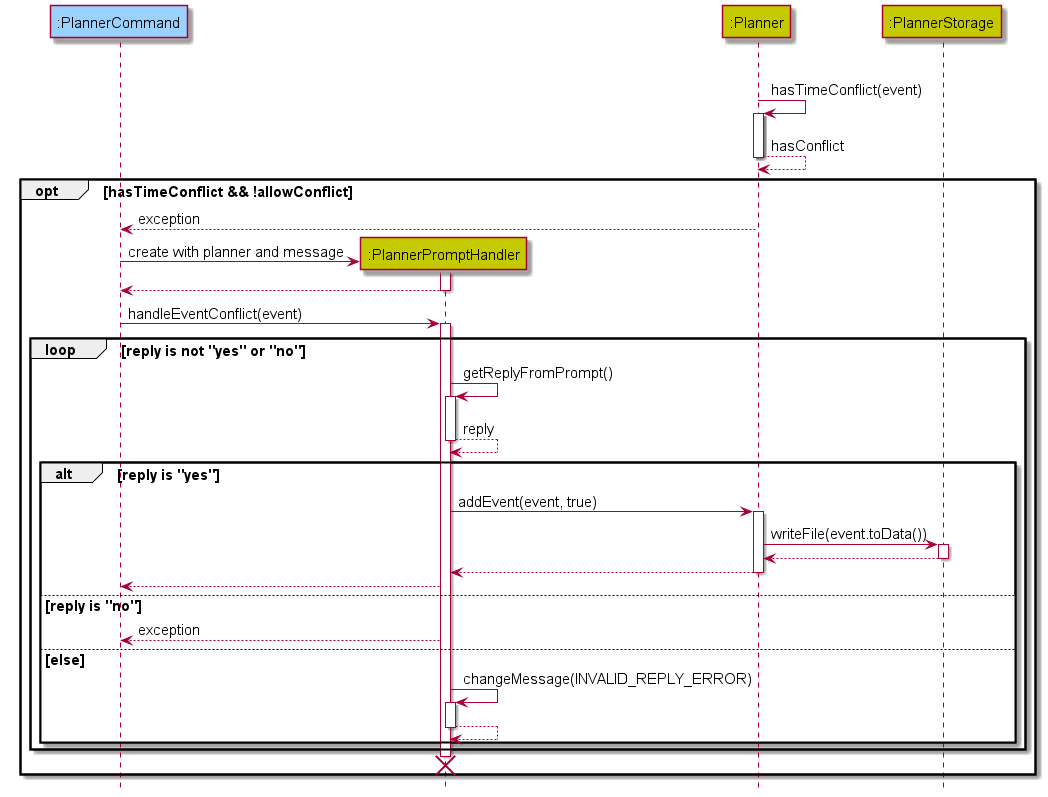
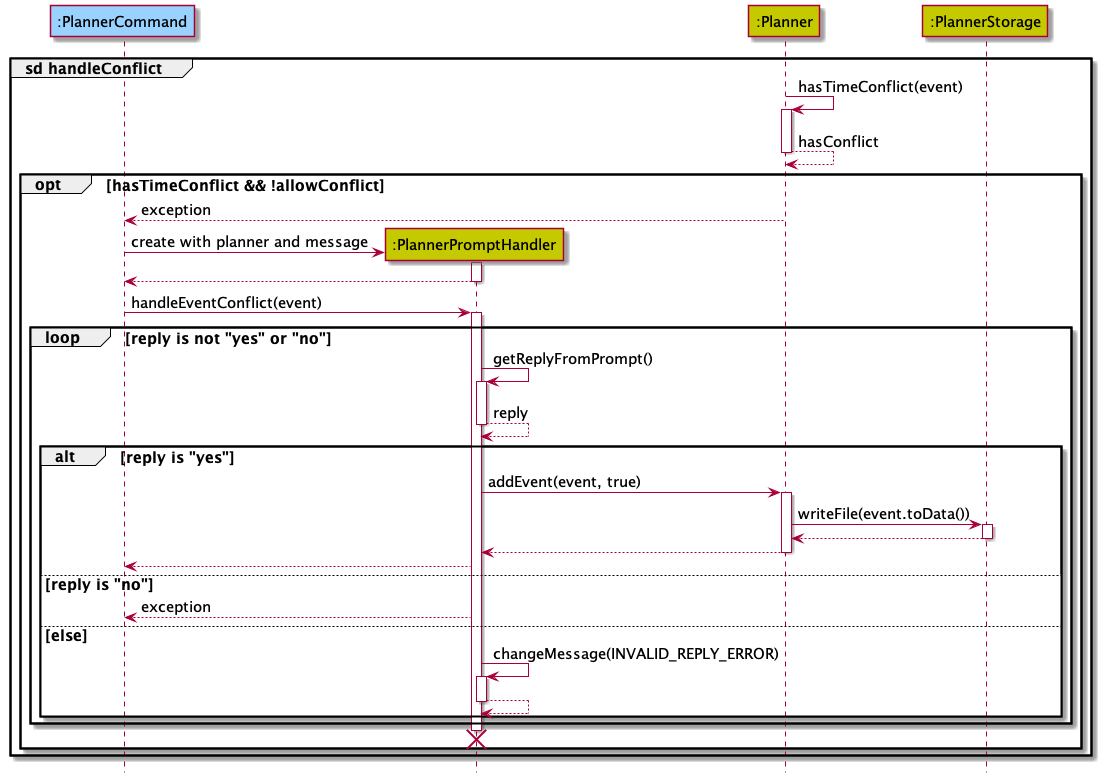
Update DG for timetable add sequence diagram and timetable manual testing

Changed region(s): [[0.0, 0.0, 1.0, 0.9871], [0.6107, 0.2776, 0.7023, 0.3085]]

diff --git a/src/main/java/seedu/kolinux/timetable/subcommand/SubCommand.java b/src/main/java/seedu/kolinux/timetable/subcommand/SubCommand.java
@@ -1,8 +1,10 @@
 package seedu.kolinux.timetable.subcommand;
 
+import seedu.kolinux.exceptions.KolinuxException;
 import seedu.kolinux.timetable.lesson.Lesson;
 
 import static seedu.kolinux.timetable.Timetable.lessonStorage;
+import static seedu.kolinux.timetable.lesson.Lesson.*;
 
 public class SubCommand {
 
@@ -28,7 +30,7 @@ public class SubCommand {
             "Please ensure the timing for the "
             +
             "lesson falls within the school hours: 0600 - 2100";
-    public static final String MISSING_LESSON_TO_DELETE = " does not exist in timetable.\n"
+    public static final String MISSING_LESSON_TO_DELETE = "Specified lesson does not exist in timetable.\n"
             +
             "Please input valid lesson to remove.";
     public static final String INVALID_ADD_FORMAT = "Please check the format of adding to timetable:\n"
@@ -39,7 +41,7 @@ public class SubCommand {
     public static final String INACCESSIBLE_PERIOD = "Please choose another slot as the "
             +
             "period is already occupied by another lesson";
-    public static final String MISSING_LESSON_TO_UPDATE = "Lesson does not exist in timetable.\n"
+    public static final String MISSING_LESSON_TO_UPDATE = "Specified lesson does not exist in timetable.\n"
             +
             "Try adding lesson to timetable with: timetable add";
     public static final String TIMETABLE_HEADER = "+-------------+--------------------+---------"
@@ -57,7 +59,7 @@ public class SubCommand {
     public static final String INVALID_LESSON_FORMAT = "Please ensure the LESSON_TYPE entered is in one of "
             +
             "the following format:\n1. LEC\n2. TUT\n3. LAB\n4. SEC";
-    public static final String INVALID_DAY_TIME = "1. Please ensure the days are within Monday to Friday "
+    public static final String INVALID_DAY_TIME_FOR_ADD = "1. Please ensure the days are within Monday to Friday "
             +
             "and spelt fully.\n2. Please ensure the timings are within the school hours: 0600 - 2100\n"
             +
@@ -68,6 +70,14 @@ public class SubCommand {
             "   readability of timetable view on CLI.\n"
             +
             "4. Please ensure the START_TIME is earlier than the END_TIME";
+    public static final String INVALID_DAY_START_TIME = "1. Please ensure the days are within Monday to Friday "
+            +
+            "and spelt fully.\n2. Please ensure the timings are in multiples of 30 mins.\n"
+            +
+            "   Timings like 1245 or 1110 are not accepted in order to maintain\n"
+            +
+            "   readability of timetable view on CLI.";
+
     public static final int TABLE_COLUMN_WIDTH = 20;
     public static final int TABLE_FIRST_COLUMN_WIDTH = 13;
 
@@ -96,6 +106,34 @@ public class SubCommand {
             }
         }
         return false;
+    }
+
+    /**
+     * Checks if the time and day entered when inputting the lesson is valid.
+     *
+     * @param day The day of the lesson to be added
+     * @param startTime The starting time of the lesson to be added
+     * @throws KolinuxException If the day or timings entered are invalid
+     */
+    protected void checkStartTimeAndDay(String day, String startTime, String correctFormat) throws KolinuxException {
+        int dayIndex = getIndex(day, days);
+        int startTimeIndex = getIndex(startTime, schoolHours);
+        if (startTimeIndex == -1 || dayIndex == -1 ) {
+            throw new KolinuxException(correctFormat + "\n\n" + INVALID_DAY_START_TIME);
+        }
+    }
+
+    /**
+     * Checks if the lesson type entered is valid.
+     *
+     * @param lessonType The lesson type of the lesson entered to add to timetable
+     * @throws KolinuxException If the lesson type entered is invalid
+     */
+    protected void checkLessonType(String lessonType, String correctFormat) throws KolinuxException {
+        if (!(lessonType.equals("TUT") || lessonType.equals("LEC") || lessonType.equals("LAB")
+                || lessonType.equals("SEC"))) {
+            throw new KolinuxException(correctFormat + "\n\n" + INVALID_LESSON_FORMAT);
+        }
     }
 
 }

diff --git a/src/main/java/seedu/kolinux/timetable/subcommand/AddSubCommand.java b/src/main/java/seedu/kolinux/timetable/subcommand/AddSubCommand.java
@@ -67,8 +67,8 @@ public class AddSubCommand extends SubCommand {
             throws KolinuxException {
         try {
             checkLessonInModuleList(moduleList, lessonDetails[0].toUpperCase());
-            checkLessonType(lessonDetails[1].toUpperCase());
-            checkTimeAndDay(lessonDetails[2].toLowerCase(), lessonDetails[3], lessonDetails[4]);
+            checkLessonType(lessonDetails[1].toUpperCase(), INVALID_ADD_FORMAT);
+            checkTimeAndDayForAdd(lessonDetails[2].toLowerCase(), lessonDetails[3], lessonDetails[4]);
             checkExceedingWorkload(lessonDetails, isAllowingAdd, isStorageAdd);
             sortLessonsToAdd(lessonDetails[1].toUpperCase(), lessonDetails);
         } catch (ArrayIndexOutOfBoundsException exception) {
@@ -208,7 +208,7 @@ public class AddSubCommand extends SubCommand {
             }
             return true;
         } catch (ArrayIndexOutOfBoundsException exception) {
-            throw new KolinuxException(INVALID_DAY_TIME);
+            throw new KolinuxException(INVALID_DAY_TIME_FOR_ADD);
         }
     }
 
@@ -220,25 +220,13 @@ public class AddSubCommand extends SubCommand {
      * @param endTime The ending time of the lesson to be added
      * @throws KolinuxException If the day or timings entered are invalid
      */
-    private void checkTimeAndDay(String day, String startTime, String endTime) throws KolinuxException {
+    private void checkTimeAndDayForAdd(String day, String startTime, String endTime)
+            throws KolinuxException {
         int dayIndex = getIndex(day, days);
         int startTimeIndex = getIndex(startTime, schoolHours);
         int endTimeIndex = getIndex(endTime, schoolHours);
         if (startTimeIndex == -1 || dayIndex == -1 || endTimeIndex == -1 || startTimeIndex >= endTimeIndex) {
-            throw new KolinuxException(INVALID_ADD_FORMAT + "\n\n" + INVALID_DAY_TIME);
-        }
-    }
-
-    /**
-     * Checks if the lesson type entered is valid.
-     *
-     * @param lessonType The lesson type of the lesson entered to add to timetable
-     * @throws KolinuxException If the lesson type entered is invalid
-     */
-    private void checkLessonType(String lessonType) throws KolinuxException {
-        if (!(lessonType.equals("TUT") || lessonType.equals("LEC") || lessonType.equals("LAB")
-                || lessonType.equals("SEC"))) {
-            throw new KolinuxException(INVALID_ADD_FORMAT + "\n\n" + INVALID_LESSON_FORMAT);
+            throw new KolinuxException(INVALID_ADD_FORMAT + "\n\n" + INVALID_DAY_TIME_FOR_ADD);
         }
     }
 

diff --git a/src/main/java/seedu/kolinux/timetable/subcommand/UpdateSubCommand.java b/src/main/java/seedu/kolinux/timetable/subcommand/UpdateSubCommand.java
@@ -5,7 +5,6 @@ import seedu.kolinux.timetable.lesson.Lesson;
 
 import java.util.Objects;
 
-import static seedu.kolinux.commands.TimetableCommand.timetable;
 import static seedu.kolinux.timetable.Timetable.lessonStorage;
 import static seedu.kolinux.timetable.lesson.Lesson.getIndex;
 import static seedu.kolinux.timetable.lesson.Lesson.schoolHours;
@@ -32,6 +31,9 @@ public class UpdateSubCommand extends SubCommand {
      */
     public void updateTimetable(String moduleCode, String lessonType, String oldDay,
             String oldStartTiming, String newDay, String newStartTiming) throws KolinuxException {
+        checkLessonType(lessonType, INVALID_UPDATE_FORMAT);
+        checkStartTimeAndDay(oldDay, oldStartTiming, INVALID_UPDATE_FORMAT);
+        checkStartTimeAndDay(newDay, newStartTiming, INVALID_UPDATE_FORMAT);
         if (!isLessonInTimetable(moduleCode, lessonType, oldDay, oldStartTiming)) {
             throw new KolinuxException(MISSING_LESSON_TO_UPDATE);
         }
@@ -43,7 +45,6 @@ public class UpdateSubCommand extends SubCommand {
         deleteSubcommand.deleteLesson(moduleCode, lessonType, oldDay, oldStartTiming);
         addSubcommand.inputLesson(parameters, true, false);
     }
-
 
     /**
      * Gets the duration of the lesson which is to be updated.
@@ -104,7 +105,5 @@ public class UpdateSubCommand extends SubCommand {
             throw new KolinuxException(UPDATING_TO_SAME_TIMING);
         }
     }
-
-
 
 }

diff --git a/src/test/java/seedu/kolinux/timetable/TimetableTest.java b/src/test/java/seedu/kolinux/timetable/TimetableTest.java
@@ -83,7 +83,7 @@ public class TimetableTest {
             addSubCommand.addToTimetable(lesson);
             timetable.clearTimetable();
         } catch (KolinuxException exception) {
-            assertEquals(SubCommand.INVALID_ADD_FORMAT + "\n\n" + SubCommand.INVALID_DAY_TIME,
+            assertEquals(SubCommand.INVALID_ADD_FORMAT + "\n\n" + SubCommand.INVALID_DAY_TIME_FOR_ADD,
                     exception.getMessage());
         }
     }
@@ -170,7 +170,7 @@ public class TimetableTest {
             timetable.executeDelete(VALID_ADD_TUTORIAL_ARGUMENTS);
             timetable.clearTimetable();
         } catch (KolinuxException e) {
-            assertEquals("CS1231 TUT" + SubCommand.MISSING_LESSON_TO_DELETE, e.getMessage());
+            assertEquals(SubCommand.MISSING_LESSON_TO_DELETE, e.getMessage());
         }
     }
 
@@ -181,7 +181,8 @@ public class TimetableTest {
             timetable.executeDelete(INVALID_DELETE_ARGUMENT);
             timetable.clearTimetable();
         } catch (KolinuxException e) {
-            assertEquals("CS1010 LESSON" + SubCommand.MISSING_LESSON_TO_DELETE, e.getMessage());
+            assertEquals(SubCommand.INVALID_DELETE_FORMAT + "\n\n" + SubCommand.INVALID_LESSON_FORMAT,
+                    e.getMessage());
         }
     }
 

diff --git a/src/main/java/seedu/kolinux/timetable/subcommand/DeleteSubCommand.java b/src/main/java/seedu/kolinux/timetable/subcommand/DeleteSubCommand.java
@@ -43,6 +43,8 @@ public class DeleteSubCommand extends SubCommand {
             throws KolinuxException {
         int removeIndex = -1;
         int endIndex = -1;
+        checkLessonType(lessonType, INVALID_DELETE_FORMAT);
+        checkStartTimeAndDay(day,startTime,INVALID_DELETE_FORMAT);
         for (int j = 0; j < lessonStorage.size(); j++) {
             String typeInStorage = lessonStorage.get(j).getLessonType();
             String codeInStorage = lessonStorage.get(j).getModuleCode();
@@ -54,7 +56,6 @@ public class DeleteSubCommand extends SubCommand {
                 endIndex = lessonStorage.get(j).getEndTimeIndex();
             }
         }
-        String description = moduleCode + " " + lessonType;
         if (removeIndex != -1) {
             assert endIndex != -1;
             int startIndex = getIndex(startTime, schoolHours);
@@ -62,7 +63,7 @@ public class DeleteSubCommand extends SubCommand {
             lessonStorage.remove(removeIndex);
             timetableStorage.writeToFile();
         } else {
-            throw new KolinuxException(description + MISSING_LESSON_TO_DELETE);
+            throw new KolinuxException(MISSING_LESSON_TO_DELETE);
         }
     }
 

diff --git a/docs/DeveloperGuide.md b/docs/DeveloperGuide.md
@@ -222,39 +222,33 @@ file via `TimetableStorage#writeToFile()`
 
 ![Sequence Diagram2](assets/images/TimetableAddSequenceDiagram2.png)
 
-* There are checks done before adding to the timetable and one of them is the 
-`AddSubCommand#isLessonInModuleList(moduleList, moduleCode)`. This integrates `Timetable` and `ModuleList` which 
-ensures a module's lessons being added to the timetable has its `moduleCode` first added to the `ModuleList` 
-else it will throw an exception to add the module.
+* Due to a few inaccuracies in the api for the prescribed workload for certain modules, users are given the liberty to
+exceed the workload whilst displaying a warning as to what the prescribed workload is. For this we have made use of the 
+`PromptHandler` just like we did in `planner` to get a reply from the user in order to continue adding with the lesson.
+* The following code illustrates how to check if the lesson inputted exceeds the workload.
 
 ```
-    private boolean isLessonInModuleList(ModuleList moduleList, String moduleCode) {
-        for (ModuleDetails module : moduleList.myModules) {
-            if (Objects.equals(module.moduleCode, moduleCode)) {
-                return true;
-            }
-        }
-        return false;
+private void checkExceedingWorkload(String[] lessonDetails, boolean isAllowingAdd, boolean isStorageAdd)
+        throws KolinuxException {
+    String lessonType = lessonDetails[1].toUpperCase();
+    String moduleCode = lessonDetails[0].toUpperCase();
+    double requiredHours = getRequiredHours(moduleList, moduleCode, lessonType);
+    double inputHours = getIndex(lessonDetails[4], schoolHours) - getIndex(lessonDetails[3], schoolHours);
+    double storageHours = getStorageHours(moduleCode, lessonType) + inputHours;
+    if (storageHours > requiredHours && !isAllowingAdd && !isStorageAdd) {
+        throw new ExceedWorkloadException("Input hours for " + moduleCode + " " + lessonType
+                +
+                " exceeds the total workload\nIt exceeds " + requiredHours / 2 + " hours\n"
+                +
+                "Do you want to continue adding the lesson despite\n"
+                +
+                "exceeding the workload? Please enter y or n");
     }
+}
 ```
-* Another check done is to check if the slot between `START_TIME` and `END_TIME` is not occupied by another lesson,
-likewise it will throw an exception.
 
-```
-    private boolean isPeriodFree(int startIndex, int endIndex, int dayIndex) throws KolinuxException {
-        try {
-            for (int i = startIndex; i < endIndex; i++) {
-                if (timetableData[i][dayIndex] != null) {
-                    return false;
-                }
-            }
-            return true;
-        } catch (ArrayIndexOutOfBoundsException exception) {
-            throw new KolinuxException(INVALID_HOURS_INPUT);
-        }
-    }
-```
-* The following sequence diagram illustrates both these checks.
+* The following sequence diagram illustrates what happens when input hours exceed the workload and what the program
+does to handle this exception before adding the lesson to the timetable.
 
 ![Sequence Diagram2](assets/images/TimetableAddSequenceDiagram3.png)
 
@@ -654,5 +648,89 @@ should be able to accomplish most of the tasks faster using commands than using 
    
    * Test case: `bus stop list`
     
-      Expected: Shows the list of all bus stops.
+       Expected: Shows the list of all bus stops.
+
+### Testing the Timetable feature
+
+1. Adding to timetable without exceeding workload
+
+   * Prerequisites : Ensure to follow the prescribed workload in `module list`
+   * Test case: `timetable add CS1010/LEC/monday/1300/1400`
+       
+       Expected: Lesson will be added without any errors
+   * Test case: `timetable add CS1010/lecture/monday/1500/1600`
    
+       Expected: Lesson will not be added as timetable only accepts lesson type of the following formats: `LEC`, `TUT`, `SEC`, `LAB`.
+   * Test case: `timetable add CS1010/LEC/sat/1500/1600`
+   
+       Expected: Lesson will not be added as timetable only accepts days from monday to friday spelt fully.
+   * Test case: `timetable add CS1010/LEC/monday/1515/1600`
+
+       Expected: Lesson will not be added as timetable only timings in multiples of 30 mins
+   * Test case: `timetable add CS1010/LEC/sat/1500/1600` followed by `timetable add CS1231/LEC/sat/1500/1600`
+
+       Expected: Lesson will not be added as timetable does not accept 2 lessons to be added in the same timeslot
+   * Test case: `timetable add CS1010/LEC/monday/2100/2200`
+   
+       Expected: Lesson wil not be added as the allowed school hours are 0600 - 2100, the starting time of a lesson cannot be earlier than 0600 and the ending time cannot be later than 2100
+ 
+2. Adding lesson to timetable which exceeds the workload
+
+    * Test case: `timetable add CS1010/LEC/monday/1300/1900` followed by `y`
+
+      Expected: Program will output a prompt to confirm if you want to continue adding despite exceeding workload and by entering `y` after this prompt will add the lesson to the timetable
+    * Test case: `timetable add CS1010/LEC/monday/1300/1900` followed by `n`
+
+      Expected: Program will output a prompt to confirm if you want to continue adding despite exceeding workload and by entering `n` after this prompt will cancel the operation of adding the lesson
+    * Test case: `timetable add CS1010/LEC/monday/1300/1900` followed by `sus`
+
+      Expected: Program will output a prompt to confirm if you want to continue adding despite exceeding workload and by entering a key which is not `y` or `n` after this prompt will display an invalid key error message until you input one of the valid keys: `y` or `n`
+
+
+3. Deleting lesson from timetable
+
+   * Test case: `timetable delete CS1231/tut/monday/1200`
+       
+       Expected: Lesson will be deleted from timetable
+   * Test case: `timetable delete CS1231/tut/monday/1200` but lesson not added to timetable in the first place
+     
+       Expected: Lesson will not be deleted from timetable as the lesson does not exist in timetable
+   * Test case: `timetable delete CS1231/tut/mon/1200`
+
+       Expected: Lesson will not be deleted from timetable as timetable only accepts days from monday to friday spelt fully.
+   * Test case: `timetable delete CS1231/tutorial/monday/1200`
+
+       Expected: Lesson will not be deleted as timetable only accepts lesson type of the following formats: `LEC`, `TUT`, `SEC`, `LAB`.
+
+4. Update timetable 
+
+    * Test case: `timetable update CS1231/tut/monday/1200/tuesday/1200`
+
+        Expected: Lesson will be updated 
+    * Test case: `timetable update CS1231/tut/monday/1200/tuesday/1200` but lesson not added to timetable in the first place
+
+        Expected: Lesson will not be updated as the lesson does not exist in timetable
+    * Test case: `timetable update CS1231/tut/mon/1200/tuesday/1200`
+
+        Expected: Lesson will not be updated as timetable only accepts days from monday to friday spelt fully
+    * Test case: `timetable update CS1231/tutorial/monday/1200/tuesday/1200`
+
+        Expected: Lesson will not be updated as timetable only accepts lesson type of the following formats: `LEC`, `TUT`, `SEC`, `LAB`.
+    * Test case: `timetable update CS1231/tut/monday/1200/monday/1200`
+
+        Expected: Lesson will not be updated as the timing and day given is updating the lesson to the same timing and day
+
+5. View timetable
+
+   * Test case: `timetable view`
+       
+       Expected: Timetable will be printed onto the CLI
+
+6. List timetable
+
+   * Test case: `timetable list monday`
+
+       Expected: The lessons occurring on monday and their timings will be listed on the CLI
+   * Test case: `timetable list sat`
+      
+       Expected: Lessons will not be listed as the day needs to be from monday to firday and spelt fully
